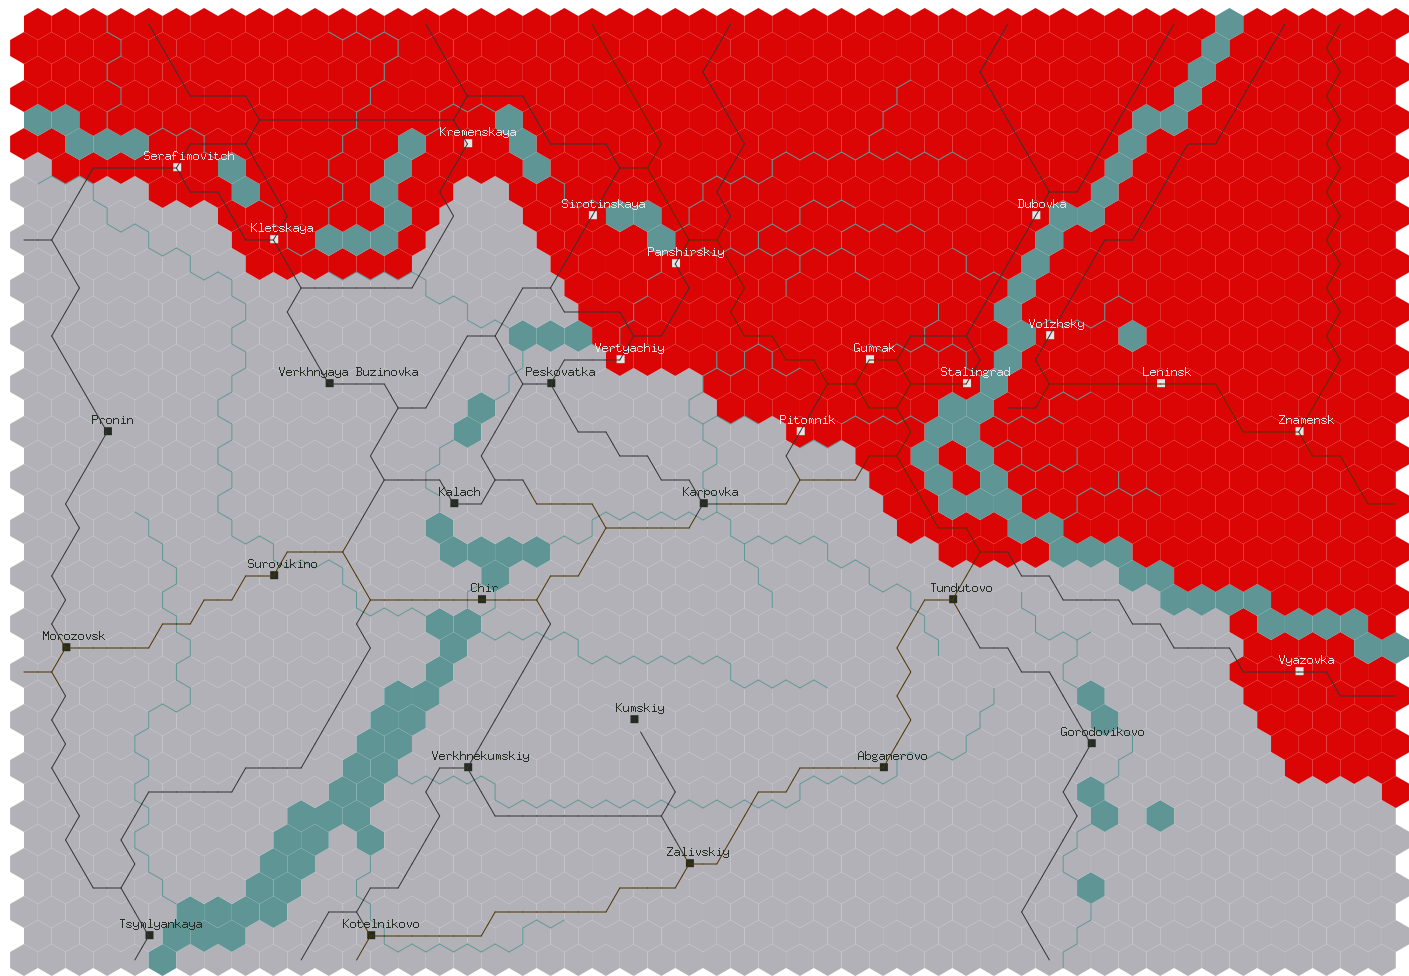
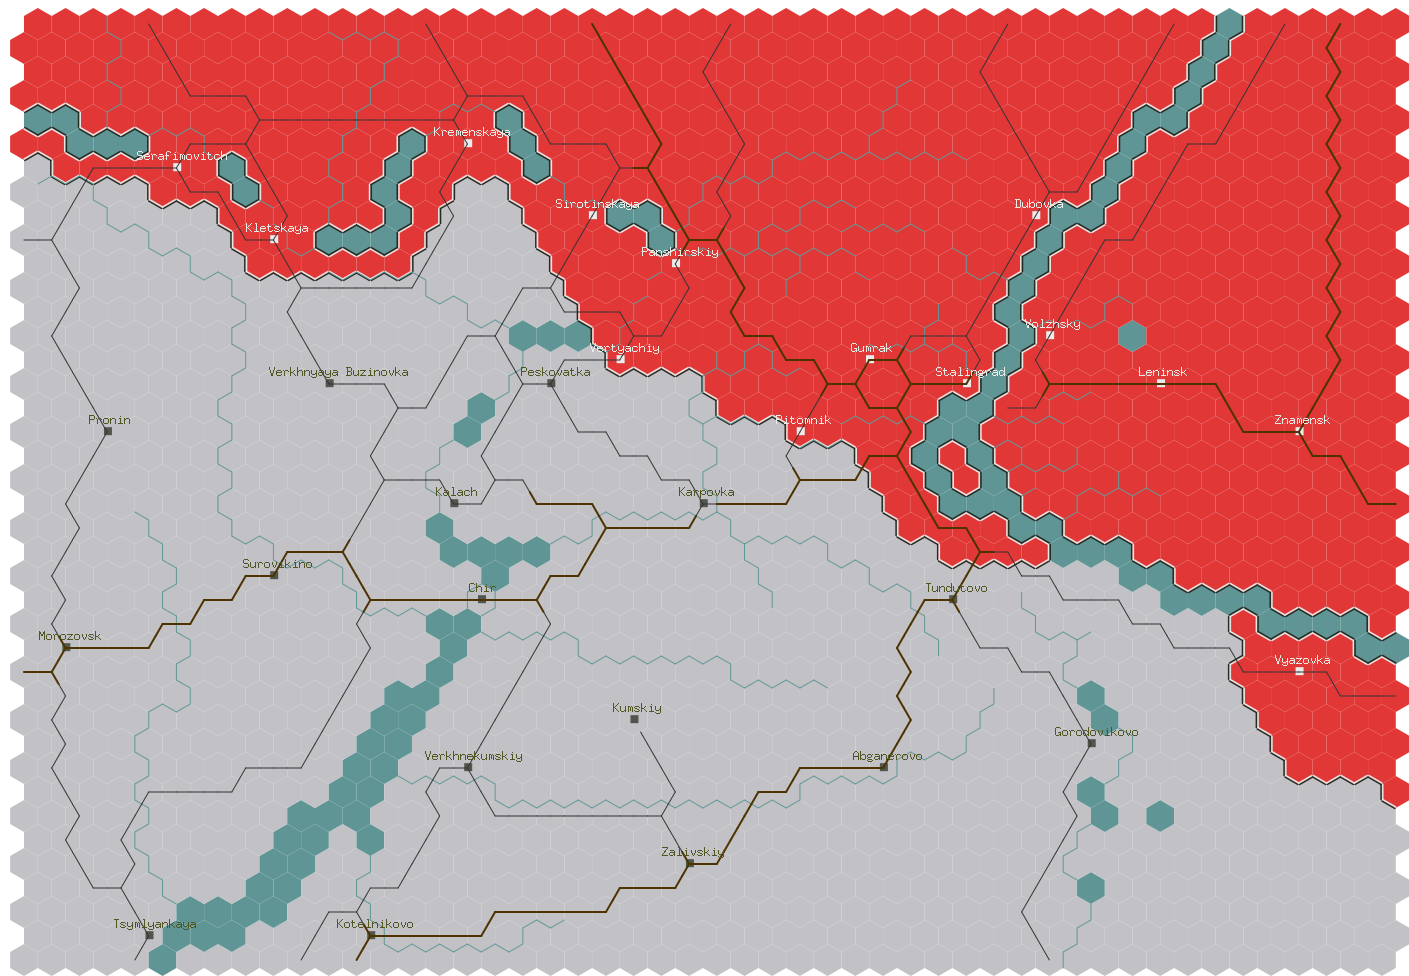
Update screenshots in README

diff --git a/README.md b/README.md
@@ -28,6 +28,7 @@ Example
 <img src="https://raw.githubusercontent.com/samuelyuan/Civ5MapImage/master/screenshots/world.png" alt="world" width="550" height="300" />
 <img src="https://raw.githubusercontent.com/samuelyuan/Civ5MapImage/master/screenshots/world1900.png" alt="world 1900" width="550" height="300" />
 <img src="https://raw.githubusercontent.com/samuelyuan/Civ5MapImage/master/screenshots/world1942.png" alt="world 1942" width="660" height="300" />
+<img src="https://raw.githubusercontent.com/samuelyuan/Civ5MapImage/master/screenshots/world2022.png" alt="world 2022" width="660" height="300" />
 </div>
 
 <div style="display:inline-block;">
@@ -171,7 +172,7 @@ In version 12, the sizeof this struct is 136 bytes.
 
 ### Unknown block
 
-There is a section between the city data and team data that doesn't seem to be used anywhere, except for padding. The sizeof this block is unknown, but this block size increases as the number of civs increases. 
+There is a section between the city data and team data that doesn't seem to be used anywhere, except for padding. The sizeof this block is unknown, but this block size increases as the number of civs increases.
 
 | Type | Size | Description |
 | ---- | ---- | ----------- |
